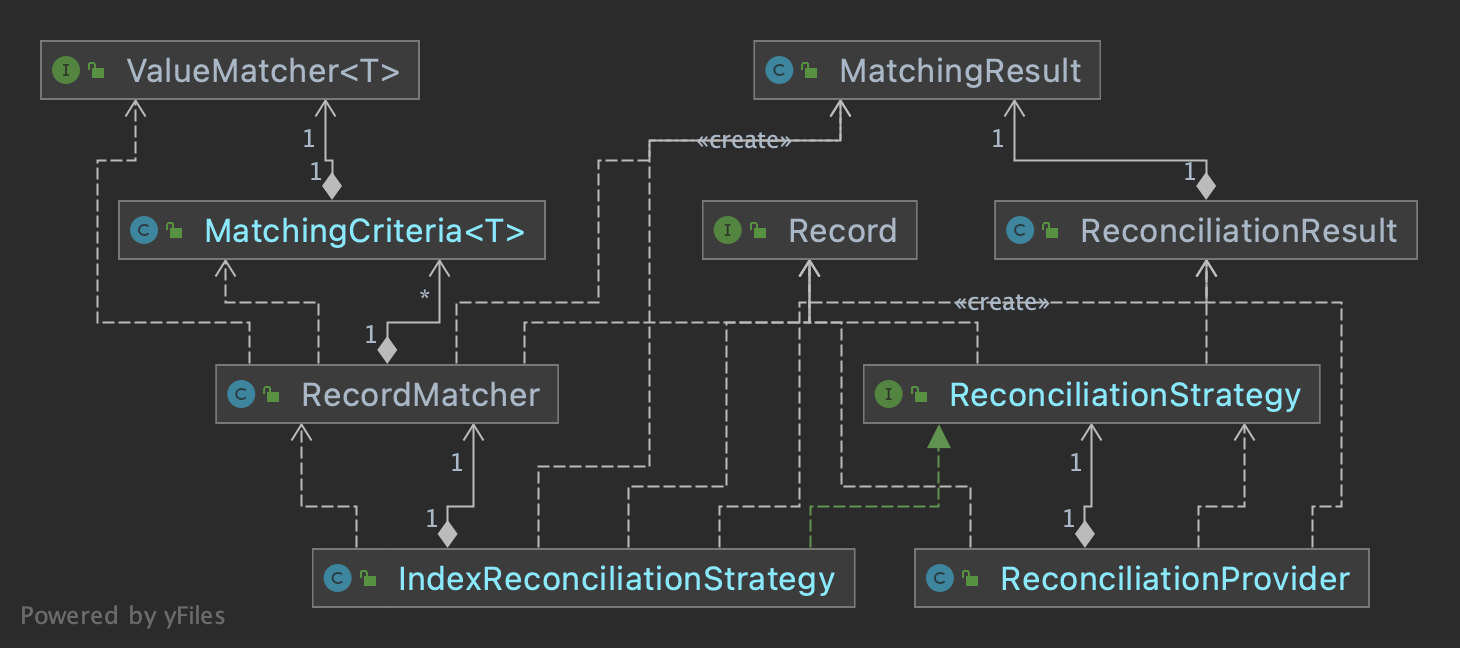
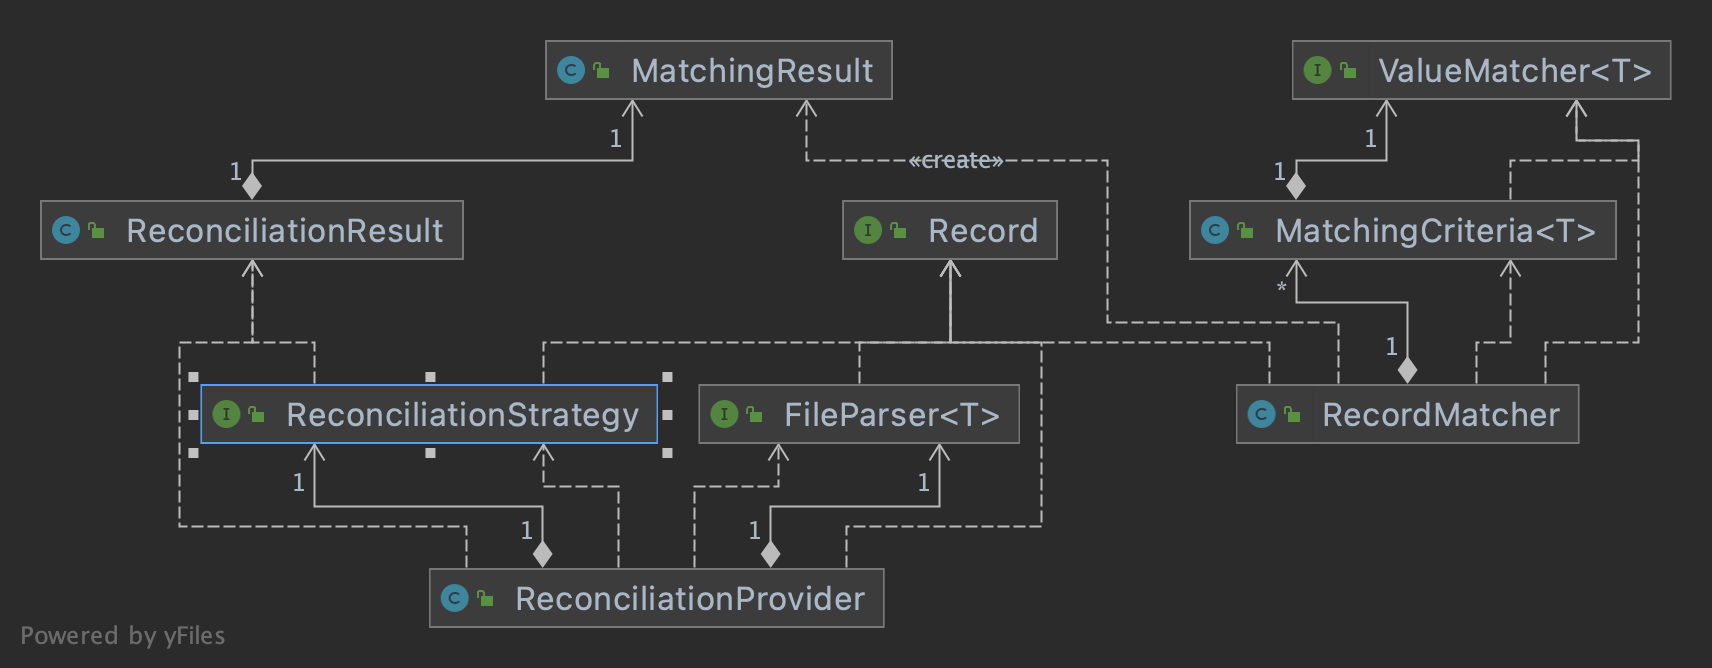
refactor: Rename record type

diff --git a/src/test/java/com/tutuka/txmanagement/reconciliation/RecordMatcherTest.java b/src/test/java/com/tutuka/txmanagement/reconciliation/RecordMatcherTest.java
@@ -40,10 +40,10 @@ class RecordMatcherTest {
 
     @Test
     void compare_whenAllFieldMatch_ThenReturnOneHundredMatchingPercentage() {
-        TestFieldObjectRecord record1 = new TestFieldObjectRecord();
+        TestFieldRecord record1 = new TestFieldRecord();
         record1.setTransactionID("1");
         record1.setTransactionAmount(1d);
-        TestFieldObjectRecord record2 = new TestFieldObjectRecord();
+        TestFieldRecord record2 = new TestFieldRecord();
         record2.setTransactionID("1");
         record2.setTransactionAmount(1d);
         MatchingResult compare = recordMatcher.compare(record1, record2);
@@ -54,10 +54,10 @@ class RecordMatcherTest {
 
     @Test
     void compare_whenPartialFieldMatch_ThenReturnBetweenOneHundredAndZeroMatchingPercentage() {
-        TestFieldObjectRecord record1 = new TestFieldObjectRecord();
+        TestFieldRecord record1 = new TestFieldRecord();
         record1.setTransactionID("1");
         record1.setTransactionAmount(1d);
-        TestFieldObjectRecord record2 = new TestFieldObjectRecord();
+        TestFieldRecord record2 = new TestFieldRecord();
         record2.setTransactionID("2");
         record2.setTransactionAmount(1d);
         MatchingResult compare = recordMatcher.compare(record1, record2);
@@ -67,10 +67,10 @@ class RecordMatcherTest {
 
     @Test
     void compare_whenNoFieldMatch_ThenReturnZeroMatchingPercentage() {
-        TestFieldObjectRecord record1 = new TestFieldObjectRecord();
+        TestFieldRecord record1 = new TestFieldRecord();
         record1.setTransactionID("1");
         record1.setTransactionAmount(1d);
-        TestFieldObjectRecord record2 = new TestFieldObjectRecord();
+        TestFieldRecord record2 = new TestFieldRecord();
         record2.setTransactionID("2");
         record2.setTransactionAmount(2d);
         MatchingResult compare = recordMatcher.compare(record1, record2);
@@ -90,10 +90,10 @@ class RecordMatcherTest {
 
     @Test
     void compare_whenValueOfAFieldOnOneRecordNull_ThenConsiderThatFieldNotMatched() {
-        TestFieldObjectRecord record1 = new TestFieldObjectRecord();
+        TestFieldRecord record1 = new TestFieldRecord();
         record1.setTransactionID("1");
         record1.setTransactionAmount(1d);
-        TestFieldObjectRecord record2 = new TestFieldObjectRecord();
+        TestFieldRecord record2 = new TestFieldRecord();
         record2.setTransactionID("1");
         record2.setTransactionAmount(null);
         MatchingResult result = recordMatcher.compare(record1, record2);

diff --git a/src/test/java/com/tutuka/txmanagement/reconciliation/strategy/IndexReconciliationStrategyTest.java b/src/test/java/com/tutuka/txmanagement/reconciliation/strategy/IndexReconciliationStrategyTest.java
@@ -3,17 +3,12 @@ package com.tutuka.txmanagement.reconciliation.strategy;
 import com.tutuka.txmanagement.reconciliation.MatchingResult;
 import com.tutuka.txmanagement.reconciliation.ReconciliationResult;
 import com.tutuka.txmanagement.reconciliation.RecordMatcher;
-import com.tutuka.txmanagement.reconciliation.TestFieldObjectRecord;
-import com.tutuka.txmanagement.reconciliation.exception.InvalidDataException;
+import com.tutuka.txmanagement.reconciliation.TestFieldRecord;
 import com.tutuka.txmanagement.reconciliation.model.Record;
-import org.junit.Before;
 import org.junit.jupiter.api.BeforeEach;
 import org.junit.jupiter.api.Test;
 import org.junit.jupiter.api.extension.ExtendWith;
-import org.junit.jupiter.api.function.Executable;
-import org.junit.runner.RunWith;
 import org.mockito.Mock;
-import org.mockito.Mockito;
 import org.mockito.junit.jupiter.MockitoExtension;
 import org.springframework.test.util.ReflectionTestUtils;
 
@@ -50,7 +45,7 @@ class IndexReconciliationStrategyTest {
         ArrayList<Record> source1Records = new ArrayList<Record>();
         ArrayList<Record> source2Records = new ArrayList<Record>();
 
-        TestFieldObjectRecord record1 = new TestFieldObjectRecord();
+        TestFieldRecord record1 = new TestFieldRecord();
         record1.setTransactionAmount(1d);
         record1.setTransactionID("1");
         source1Records.add(record1);
@@ -77,7 +72,7 @@ class IndexReconciliationStrategyTest {
         ArrayList<Record> source1Records = new ArrayList<Record>();
         ArrayList<Record> source2Records = new ArrayList<Record>();
 
-        TestFieldObjectRecord record1 = new TestFieldObjectRecord();
+        TestFieldRecord record1 = new TestFieldRecord();
         record1.setTransactionAmount(1d);
         record1.setTransactionID(null);
         source1Records.add(record1);
@@ -100,12 +95,12 @@ class IndexReconciliationStrategyTest {
         ArrayList<Record> source1Records = new ArrayList<Record>();
         ArrayList<Record> source2Records = new ArrayList<Record>();
 
-        TestFieldObjectRecord record1 = new TestFieldObjectRecord();
+        TestFieldRecord record1 = new TestFieldRecord();
         record1.setTransactionAmount(1d);
         record1.setTransactionID("1");
         source1Records.add(record1);
 
-        TestFieldObjectRecord record2 = new TestFieldObjectRecord();
+        TestFieldRecord record2 = new TestFieldRecord();
         record2.setTransactionAmount(0.0D);
         record2.setTransactionID("2");
         source2Records.add(record2);

diff --git a/src/test/java/com/tutuka/txmanagement/reconciliation/strategy/GreedyReconciliationStrategyTest.java b/src/test/java/com/tutuka/txmanagement/reconciliation/strategy/GreedyReconciliationStrategyTest.java
@@ -3,7 +3,7 @@ package com.tutuka.txmanagement.reconciliation.strategy;
 import com.tutuka.txmanagement.reconciliation.MatchingResult;
 import com.tutuka.txmanagement.reconciliation.ReconciliationResult;
 import com.tutuka.txmanagement.reconciliation.RecordMatcher;
-import com.tutuka.txmanagement.reconciliation.TestFieldObjectRecord;
+import com.tutuka.txmanagement.reconciliation.TestFieldRecord;
 import com.tutuka.txmanagement.reconciliation.model.Record;
 import org.junit.jupiter.api.BeforeEach;
 import org.junit.jupiter.api.Test;
@@ -37,7 +37,7 @@ class GreedyReconciliationStrategyTest {
         ArrayList<Record> source1Records = new ArrayList<Record>();
         ArrayList<Record> source2Records = new ArrayList<Record>();
 
-        TestFieldObjectRecord record1 = new TestFieldObjectRecord();
+        TestFieldRecord record1 = new TestFieldRecord();
         record1.setTransactionAmount(1d);
         record1.setTransactionID("1");
         source1Records.add(record1);
@@ -62,7 +62,7 @@ class GreedyReconciliationStrategyTest {
         ArrayList<Record> source1Records = new ArrayList<Record>();
         ArrayList<Record> source2Records = new ArrayList<Record>();
 
-        TestFieldObjectRecord record1 = new TestFieldObjectRecord();
+        TestFieldRecord record1 = new TestFieldRecord();
         record1.setTransactionAmount(1d);
         record1.setTransactionID("1");
         source1Records.add(record1);
@@ -86,7 +86,7 @@ class GreedyReconciliationStrategyTest {
         ArrayList<Record> source1Records = new ArrayList<Record>();
         ArrayList<Record> source2Records = new ArrayList<Record>();
 
-        TestFieldObjectRecord record1 = new TestFieldObjectRecord();
+        TestFieldRecord record1 = new TestFieldRecord();
         record1.setTransactionAmount(1d);
         record1.setTransactionID("1");
         source1Records.add(record1);

diff --git a/src/main/java/com/tutuka/txmanagement/reconciliation/parser/CsvColumnMapParser.java b/src/main/java/com/tutuka/txmanagement/reconciliation/parser/CsvColumnMapParser.java
@@ -1,7 +1,7 @@
 package com.tutuka.txmanagement.reconciliation.parser;
 
 import com.opencsv.exceptions.CsvException;
-import com.tutuka.txmanagement.reconciliation.model.ColumnMapRecord;
+import com.tutuka.txmanagement.reconciliation.model.MapRecord;
 
 import java.io.File;
 import java.io.IOException;
@@ -9,18 +9,18 @@ import java.nio.file.Files;
 import java.util.ArrayList;
 import java.util.List;
 
-public class CsvColumnMapParser implements FileParser<ColumnMapRecord> {
+public class CsvColumnMapParser implements FileParser<MapRecord> {
     private static final String DELIMITER = ",";
 
     @Override
-    public List<ColumnMapRecord> parse(File file) throws IOException, CsvException {
-        List<ColumnMapRecord> rs =new ArrayList<>();
+    public List<MapRecord> parse(File file) throws IOException, CsvException {
+        List<MapRecord> rs =new ArrayList<>();
         List<String> lines = Files.readAllLines(file.toPath());
         String headerLine = lines.get(0);
         String[] headers = parseHeader(headerLine);
         for (int i = 1; i < lines.size(); i++) {
             String line = lines.get(i);
-            ColumnMapRecord record =new ColumnMapRecord();
+            MapRecord record =new MapRecord();
             String[] cells = line.split(DELIMITER);
             for (int j = 0; j < cells.length; j++) {
                 record.setValue(headers[j], cells[j]);

diff --git a/src/main/java/com/tutuka/txmanagement/reconciliation/ReconciliationProviderBuilder.java b/src/main/java/com/tutuka/txmanagement/reconciliation/ReconciliationProviderBuilder.java
@@ -1,7 +1,6 @@
 package com.tutuka.txmanagement.reconciliation;
 
-import com.tutuka.txmanagement.model.TransactionRecord;
-import com.tutuka.txmanagement.reconciliation.model.FieldObjectRecord;
+import com.tutuka.txmanagement.reconciliation.model.FieldRecord;
 import com.tutuka.txmanagement.reconciliation.model.Record;
 import com.tutuka.txmanagement.reconciliation.parser.CsvFieldObjectParser;
 import com.tutuka.txmanagement.reconciliation.parser.ExcelFieldObjectParser;
@@ -11,7 +10,6 @@ import com.tutuka.txmanagement.reconciliation.strategy.IndexReconciliationStrate
 import com.tutuka.txmanagement.reconciliation.strategy.ReconciliationStrategy;
 import org.apache.commons.lang3.StringUtils;
 
-import javax.activation.UnsupportedDataTypeException;
 import java.util.List;
 
 public class ReconciliationProviderBuilder {
@@ -73,7 +71,7 @@ public class ReconciliationProviderBuilder {
             return fileParser;
         }
 
-        if (FieldObjectRecord.class.isAssignableFrom(recordType)) {
+        if (FieldRecord.class.isAssignableFrom(recordType)) {
             if (isSupportExcel) {
                 CsvFieldObjectParser csvFieldObjectParser = new CsvFieldObjectParser(recordType);
                 csvFieldObjectParser.setNextParser(new ExcelFieldObjectParser(recordType));

diff --git a/src/test/java/com/tutuka/txmanagement/reconciliation/parser/CsvColumnMapParserTest.java b/src/test/java/com/tutuka/txmanagement/reconciliation/parser/CsvColumnMapParserTest.java
@@ -1,7 +1,7 @@
 package com.tutuka.txmanagement.reconciliation.parser;
 
 import com.opencsv.exceptions.CsvException;
-import com.tutuka.txmanagement.reconciliation.model.ColumnMapRecord;
+import com.tutuka.txmanagement.reconciliation.model.MapRecord;
 import org.junit.Assert;
 import org.junit.jupiter.api.Test;
 import org.springframework.util.ResourceUtils;
@@ -19,7 +19,7 @@ class CsvColumnMapParserTest {
         File file1 = ResourceUtils.getFile("classpath:testfile/csv_valid_file.csv");
 
         //Act
-        List<ColumnMapRecord> parse = parser.parse(file1);
+        List<MapRecord> parse = parser.parse(file1);
 
         //Assert
         Assert.assertNotNull(parse);
@@ -34,7 +34,7 @@ class CsvColumnMapParserTest {
         File file1 = ResourceUtils.getFile("classpath:testfile/csv_mismatch_trailing_separator_file.csv");
 
         //Act
-        List<ColumnMapRecord> parse = parser.parse(file1);
+        List<MapRecord> parse = parser.parse(file1);
 
         //Assert
         Assert.assertNotNull(parse);

diff --git a/src/main/java/com/tutuka/txmanagement/reconciliation/parser/ExcelFieldObjectParser.java b/src/main/java/com/tutuka/txmanagement/reconciliation/parser/ExcelFieldObjectParser.java
@@ -1,19 +1,15 @@
 package com.tutuka.txmanagement.reconciliation.parser;
 
 import com.opencsv.exceptions.CsvException;
-import com.tutuka.txmanagement.reconciliation.model.FieldObjectRecord;
-import com.tutuka.txmanagement.reconciliation.model.Record;
-import org.apache.commons.io.FileUtils;
+import com.tutuka.txmanagement.reconciliation.model.FieldRecord;
 import org.apache.commons.io.FilenameUtils;
 
-import javax.activation.UnsupportedDataTypeException;
 import java.io.File;
 import java.io.IOException;
-import java.nio.file.Files;
 import java.util.Arrays;
 import java.util.List;
 
-public class ExcelFieldObjectParser<T extends FieldObjectRecord> implements FileParser<T> {
+public class ExcelFieldObjectParser<T extends FieldRecord> implements FileParser<T> {
     private final Class<T> clazz;
     private FileParser<T> parserChain;
 

diff --git a/src/main/java/com/tutuka/txmanagement/reconciliation/parser/CsvFieldObjectParser.java b/src/main/java/com/tutuka/txmanagement/reconciliation/parser/CsvFieldObjectParser.java
@@ -7,17 +7,16 @@ import com.opencsv.bean.HeaderNameBaseMappingStrategy;
 import com.opencsv.enums.CSVReaderNullFieldIndicator;
 import com.opencsv.exceptions.CsvException;
 import com.opencsv.exceptions.CsvRequiredFieldEmptyException;
-import com.tutuka.txmanagement.reconciliation.model.FieldObjectRecord;
+import com.tutuka.txmanagement.reconciliation.model.FieldRecord;
 import org.apache.commons.io.FilenameUtils;
 
-import javax.activation.UnsupportedDataTypeException;
 import java.io.File;
 import java.io.IOException;
 import java.io.Reader;
 import java.nio.file.Files;
 import java.util.List;
 
-public class CsvFieldObjectParser<T extends FieldObjectRecord> implements FileParser<T> {
+public class CsvFieldObjectParser<T extends FieldRecord> implements FileParser<T> {
     private Class<T> clazz;
     private FileParser parserChain;
 

diff --git a/src/main/java/com/tutuka/txmanagement/model/TransactionRecord.java b/src/main/java/com/tutuka/txmanagement/model/TransactionRecord.java
@@ -3,7 +3,7 @@ package com.tutuka.txmanagement.model;
 import com.opencsv.bean.CsvBindByName;
 import com.opencsv.bean.CsvDate;
 import com.tutuka.txmanagement.reconciliation.annotation.MatchColumnName;
-import com.tutuka.txmanagement.reconciliation.model.FieldObjectRecord;
+import com.tutuka.txmanagement.reconciliation.model.FieldRecord;
 import lombok.AllArgsConstructor;
 import lombok.Getter;
 import lombok.NoArgsConstructor;
@@ -15,7 +15,7 @@ import java.util.Date;
 @Getter
 @NoArgsConstructor
 @AllArgsConstructor
-public class TransactionRecord extends FieldObjectRecord {
+public class TransactionRecord extends FieldRecord {
 
     @CsvBindByName(column = "ProfileName")
     @MatchColumnName(name = "ProfileName")

diff --git a/src/test/java/com/tutuka/txmanagement/reconciliation/TestFieldRecord.java b/src/test/java/com/tutuka/txmanagement/reconciliation/TestFieldRecord.java
@@ -2,11 +2,11 @@ package com.tutuka.txmanagement.reconciliation;
 
 import com.opencsv.bean.CsvBindByName;
 import com.tutuka.txmanagement.reconciliation.annotation.MatchColumnName;
-import com.tutuka.txmanagement.reconciliation.model.FieldObjectRecord;
+import com.tutuka.txmanagement.reconciliation.model.FieldRecord;
 import lombok.Data;
 
 @Data
-public class TestFieldObjectRecord extends FieldObjectRecord {
+public class TestFieldRecord extends FieldRecord {
 
     @CsvBindByName(column = "TransactionAmount")
     @MatchColumnName(name = "TransactionAmount")

diff --git a/src/main/java/com/tutuka/txmanagement/reconciliation/model/FieldRecord.java b/src/main/java/com/tutuka/txmanagement/reconciliation/model/FieldRecord.java
@@ -5,7 +5,7 @@ import com.tutuka.txmanagement.reconciliation.annotation.MatchColumnName;
 
 import java.lang.reflect.Field;
 
-public abstract class FieldObjectRecord implements Record {
+public abstract class FieldRecord implements Record {
 
 
     public Object getValueByColumnName(String columnName) {

diff --git a/src/main/java/com/tutuka/txmanagement/reconciliation/model/MapRecord.java b/src/main/java/com/tutuka/txmanagement/reconciliation/model/MapRecord.java
@@ -3,7 +3,7 @@ package com.tutuka.txmanagement.reconciliation.model;
 import java.util.HashMap;
 import java.util.Map;
 
-public class ColumnMapRecord implements Record {
+public class MapRecord implements Record {
     private Map<String, String> cells = new HashMap<>();
 
     @Override
